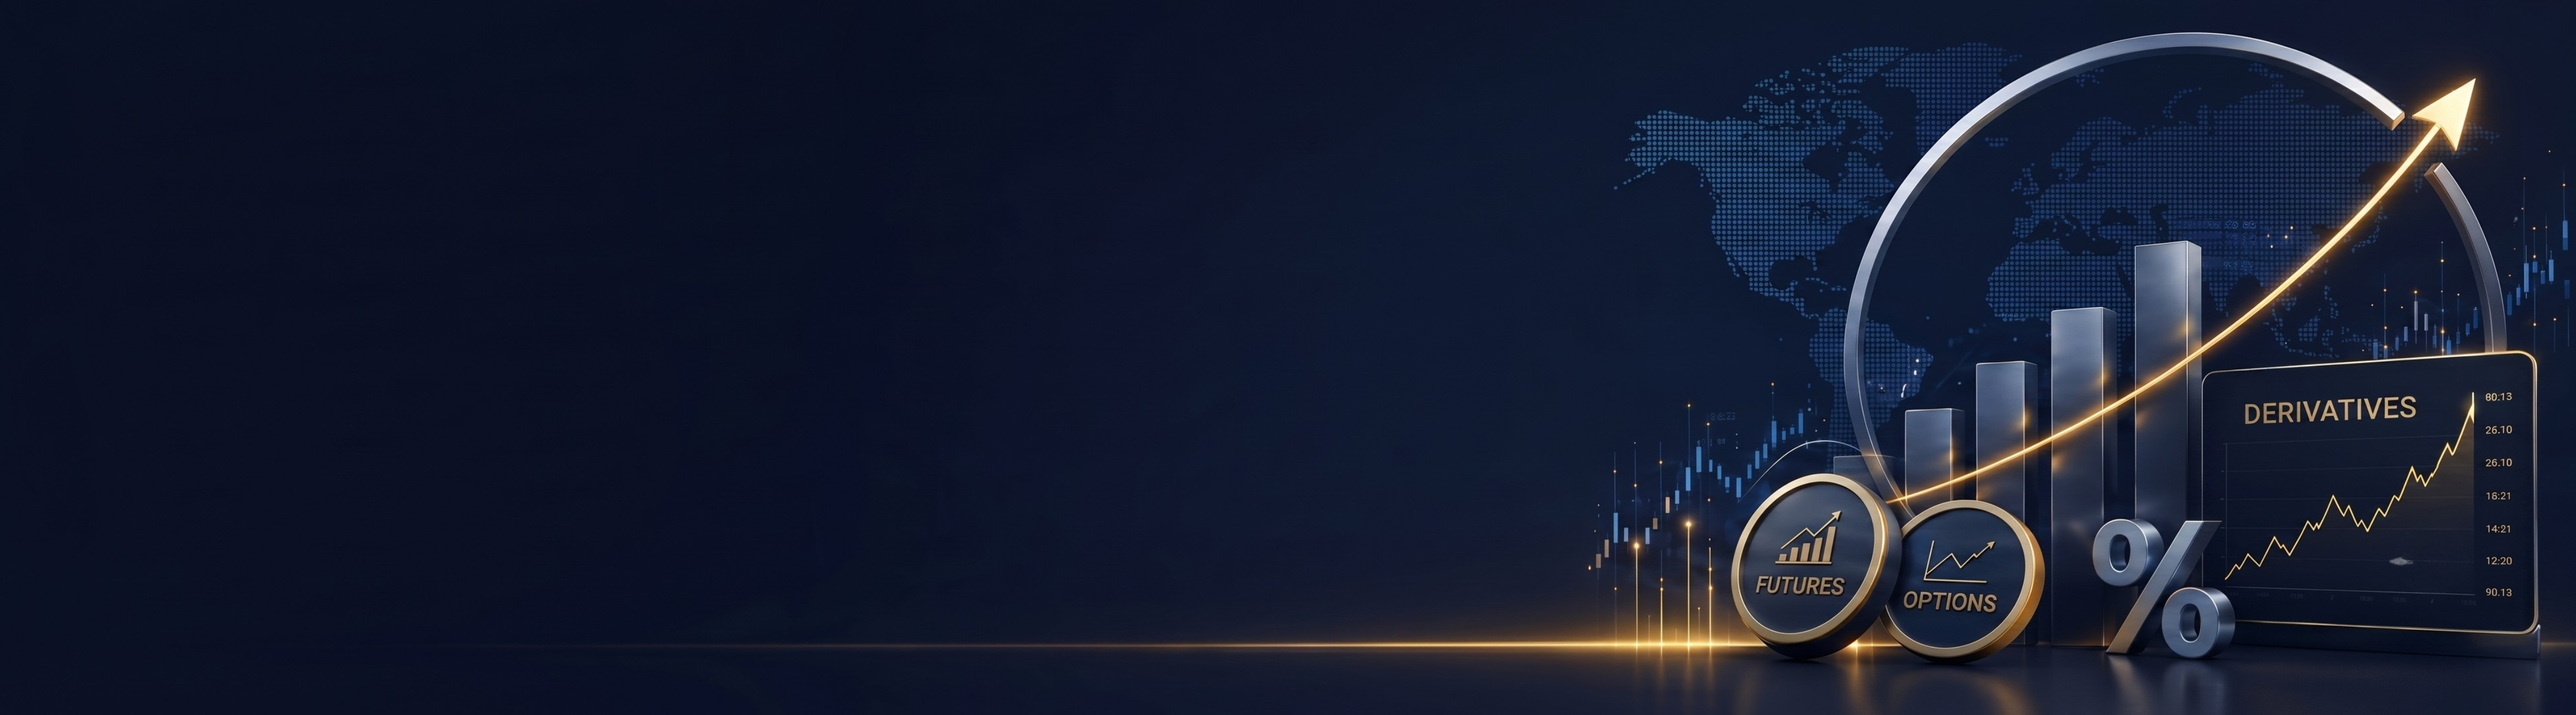
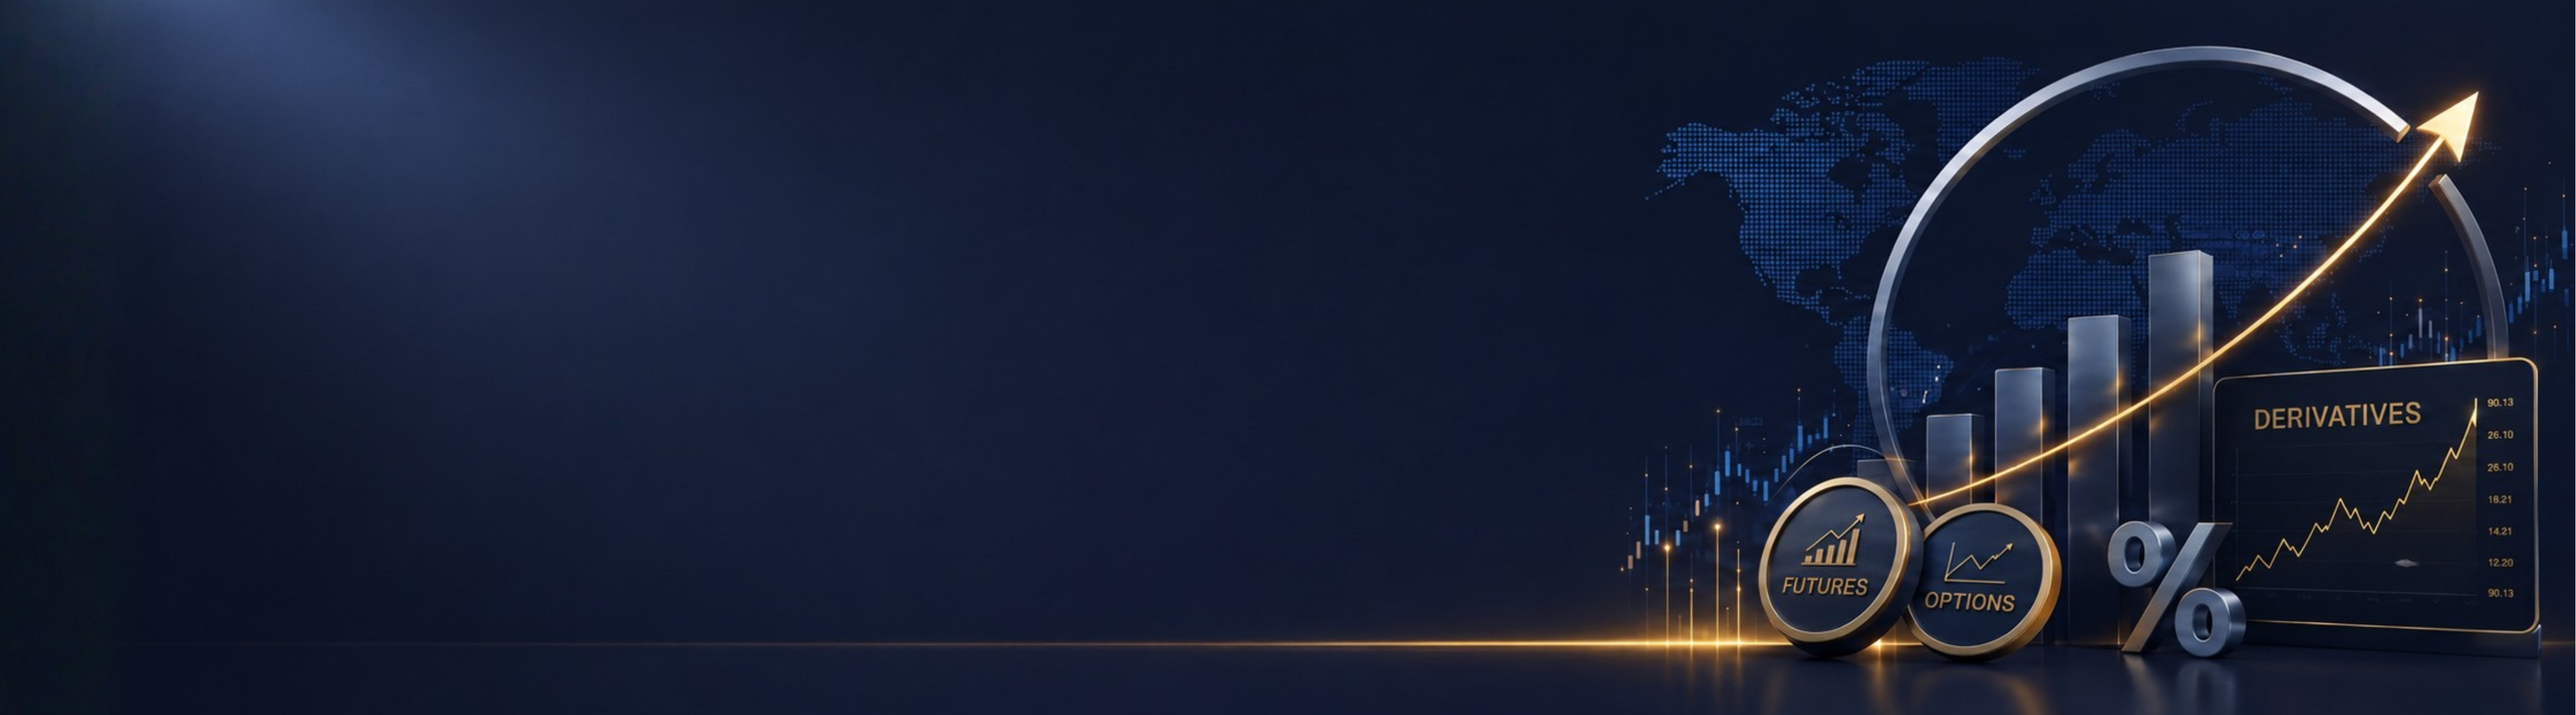
cc

diff --git a/app/contact/page.jsx b/app/contact/page.jsx
@@ -20,7 +20,7 @@ export default function ContactPage() {
       <HeroSection
         title="Contact Us"
         breadcrumbs={[{ label: "Contact Us" }]}
-        image="/images/about/contact us ratnakar.jpg"
+        image="/images/about/contact us f.jpg"
         height="h-[300px] md:h-[400px]" />
 
       {/* Main Content Area */}
